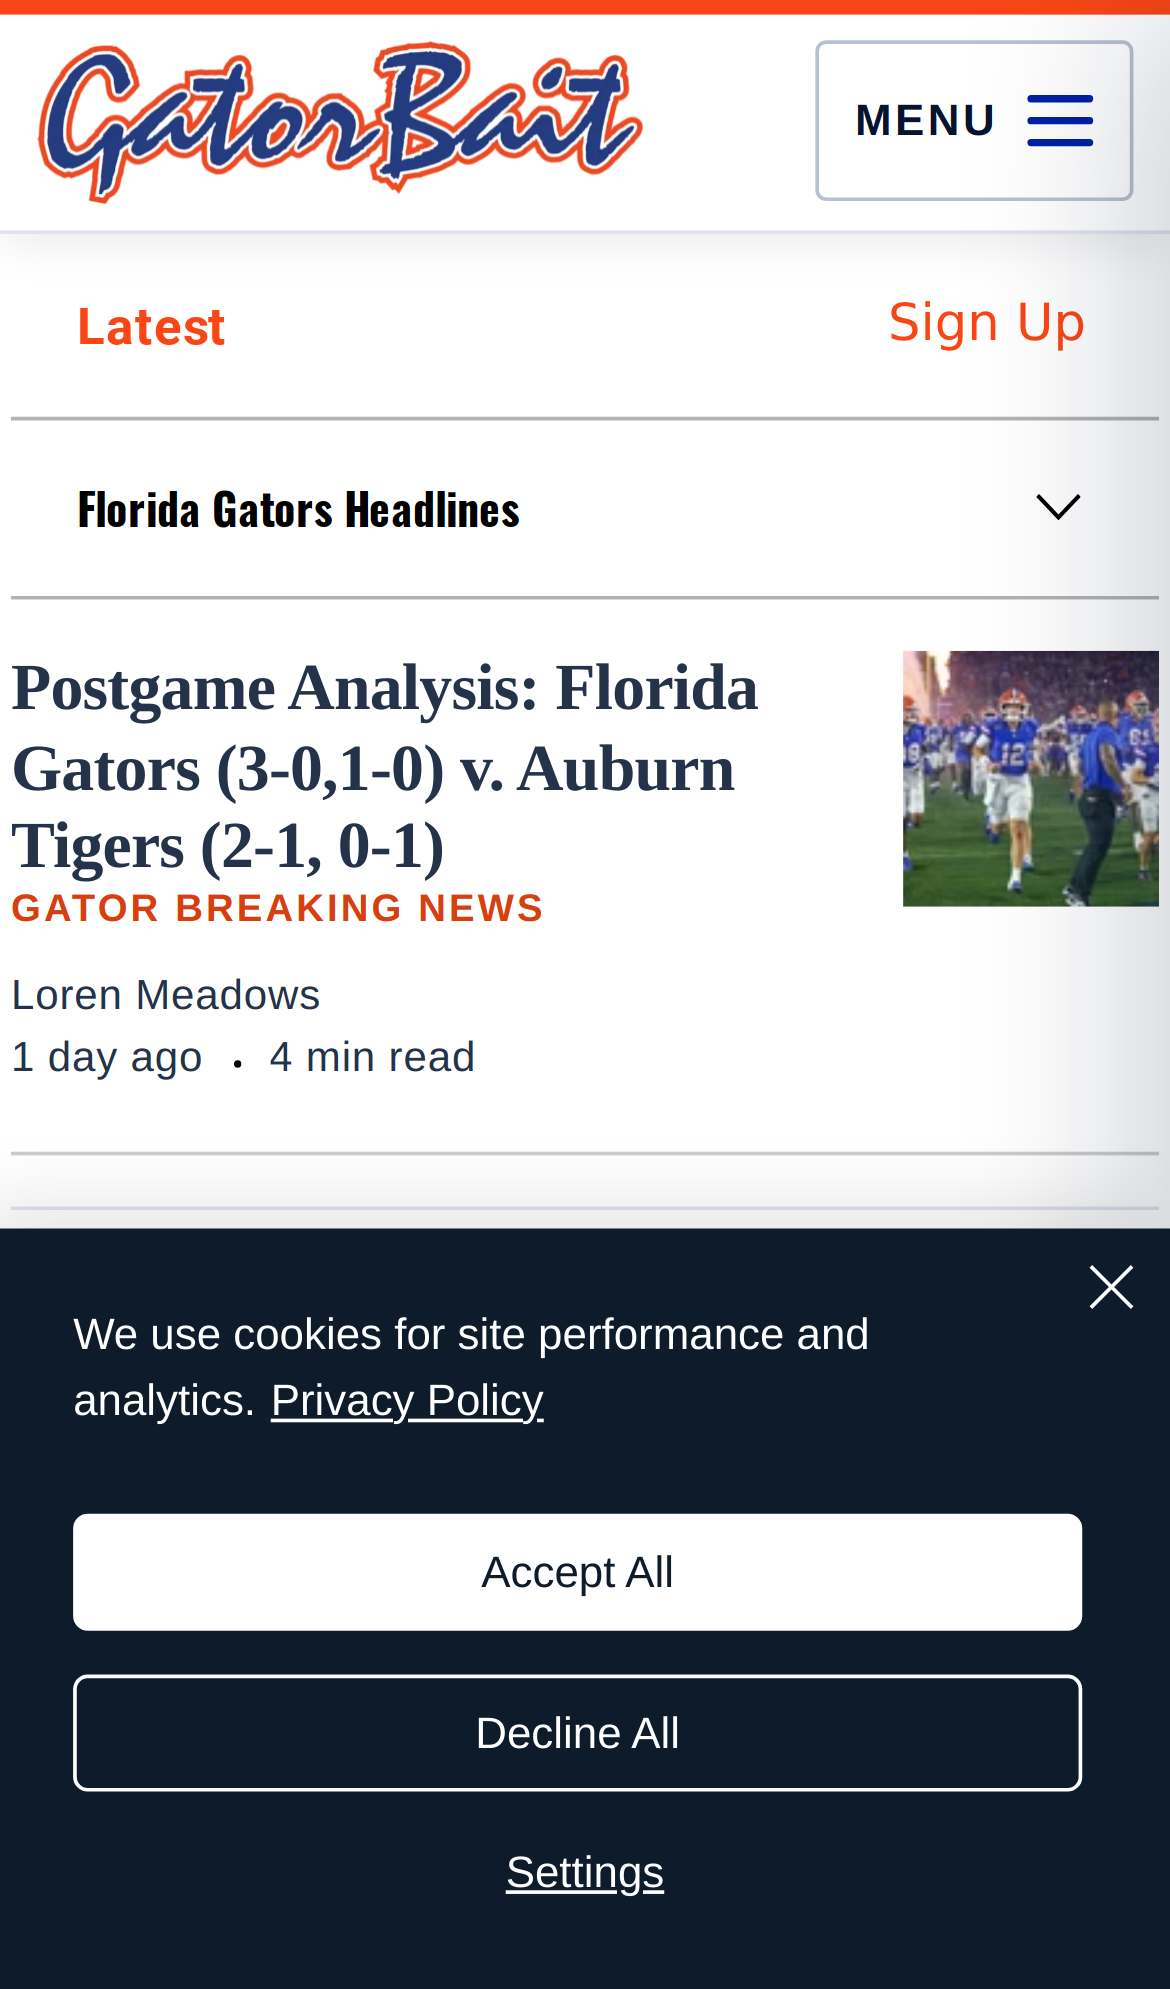
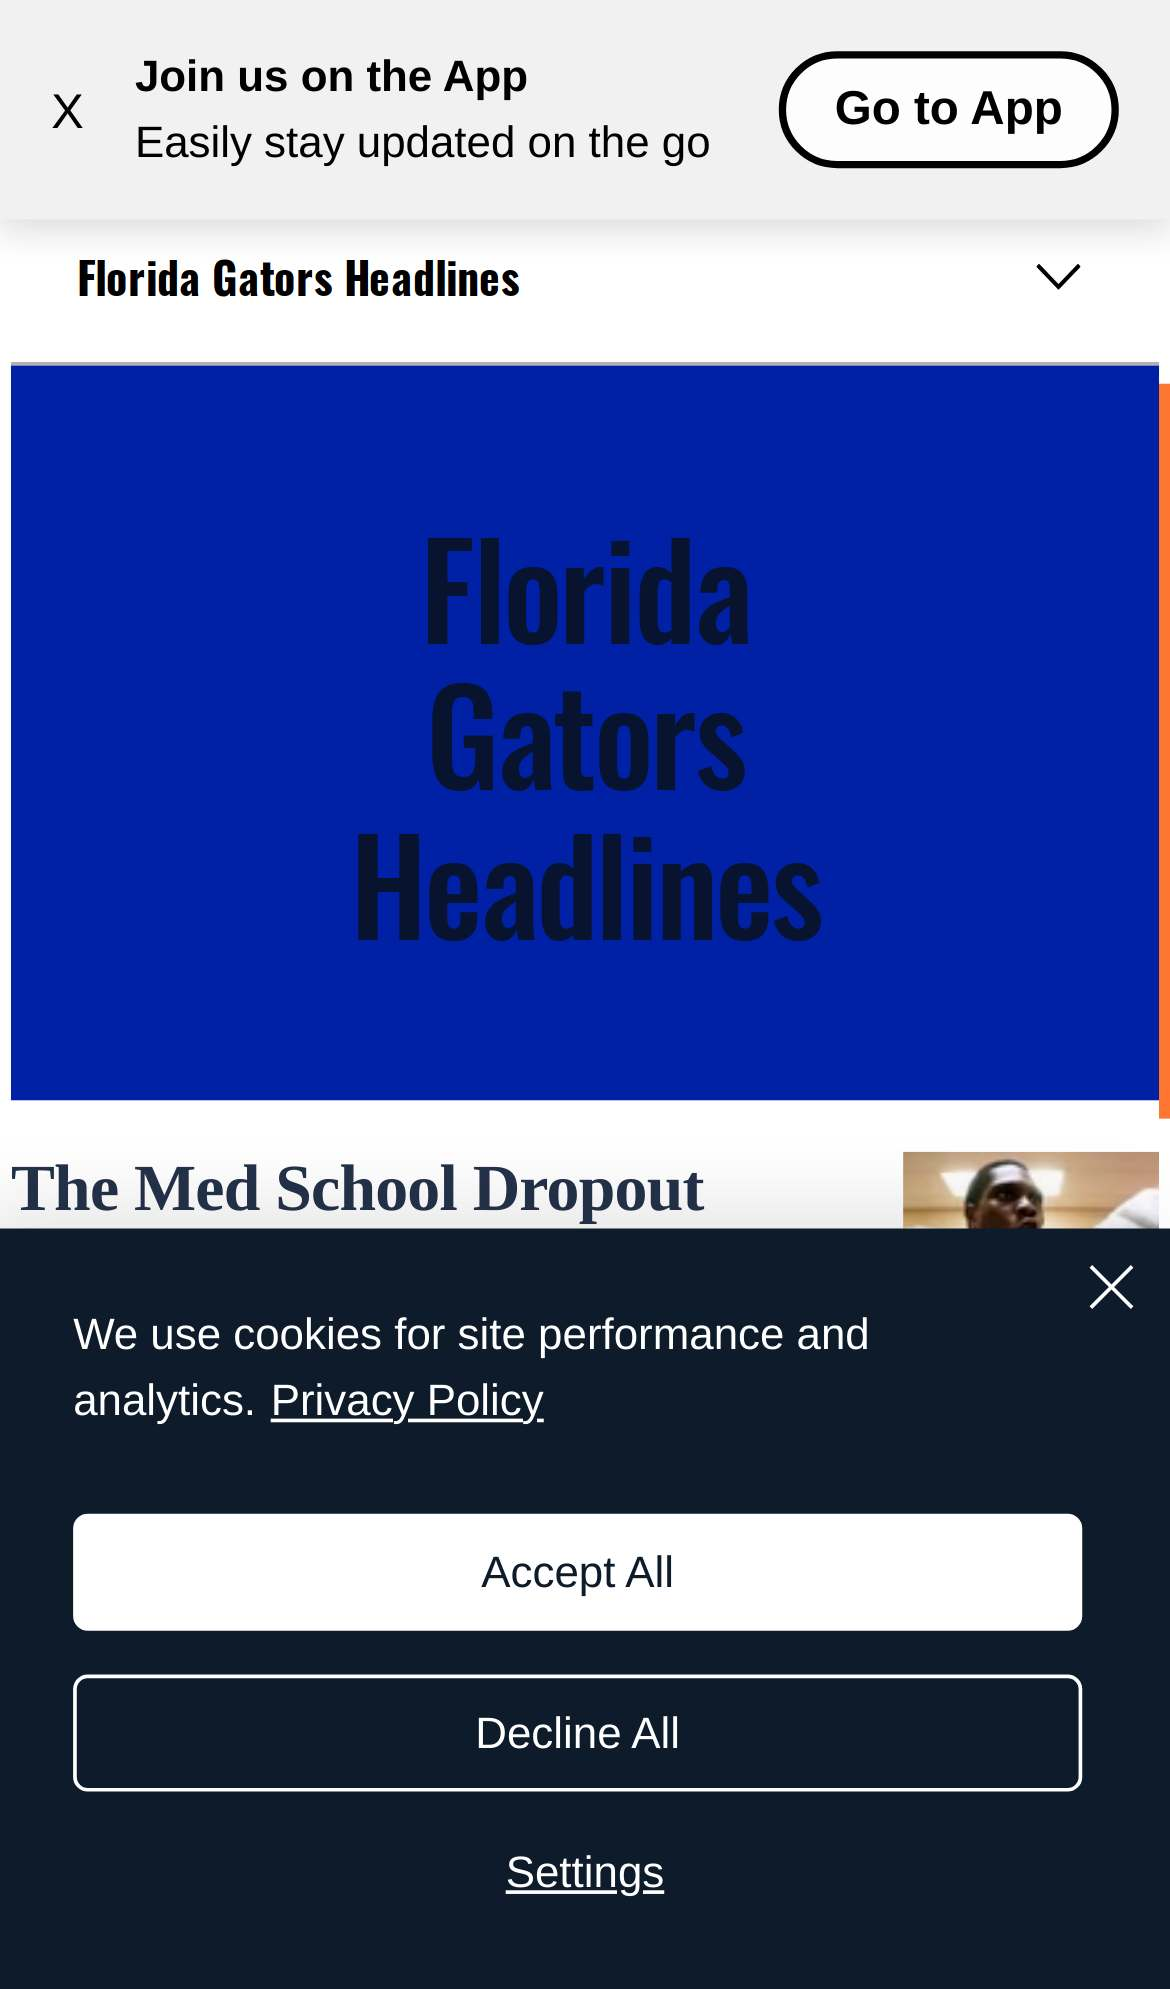
vision: capture live site as CI sees it

diff --git a/automation/vision/latest/REPORT.md b/automation/vision/latest/REPORT.md
@@ -1,22 +1,18 @@
-# Live site vision — 2026-09-21T20:03:35.078Z
+# Live site vision — 2026-09-21T20:06:04.024Z
+
+## URL checks
+
+| URL | Status | Bytes |
+|---|---:|---:|
+| `cdn.jsdelivr.net/gh/Presidente49/gatorbait-media-redesign@32127d938ad41b0f7851` | 200 | 13922 |
+| `cdn.jsdelivr.net/gh/Presidente49/gatorbait-media-redesign@d03d9d1e0350c55be03d` | 200 | 16641 |
+| `presidente49.github.io/gatorbait-media-redesign/news-sitemap.xml` | 200 | 24479 |
+| `presidente49.github.io/gatorbait-media-redesign/posts-sitemap.xml` | 200 | 8470 |
+| `presidente49.github.io/gatorbait-media-redesign/sitemap-index.xml` | 200 | 436 |
 
 ## home · mobile
-HTTP 200 · viewport 320px · root classes `(none)`
-newsroom mounted: false (0 children) · native pages visible: true
-header 122px rendered, overflow visible, content 124px
-tap targets under 44px: 8
-
-**Findings**
-- Header content is clipped: scrollHeight 124 > clientHeight 117
-- 1+ elements overflow horizontally
-- Retired branding present: Monday Chomp
-
-Console errors:
-- `Failed to load resource: net::ERR_CERT_COMMON_NAME_INVALID`
-
-## blog · mobile
-HTTP 200 · viewport 320px · root classes `gbm-blog gbm-tight-footer gbm-latest-clean gbm-hide-blog-follow`
-newsroom mounted: false (0 children) · native pages visible: true
+HTTP 200 · viewport 320px · root classes `gbm-standalone-live`
+newsroom mounted: true (4 children) · native pages visible: false
 header 0px rendered, overflow visible, content 0px
 tap targets under 44px: 26
 
@@ -27,14 +23,27 @@ Console errors:
 - `Failed to load resource: the server responded with a status of 429 ()`
 - `Failed to load resource: net::ERR_CERT_COMMON_NAME_INVALID`
 
+## blog · mobile
+HTTP 200 · viewport 320px · root classes `gbm-blog`
+newsroom mounted: false (0 children) · native pages visible: true
+header 0px rendered, overflow visible, content 0px
+tap targets under 44px: 18
+
+**Findings**
+- 1+ elements overflow horizontally
+
+Console errors:
+- `Failed to load resource: the server responded with a status of 429 ()`
+- `Failed to load resource: net::ERR_CERT_COMMON_NAME_INVALID`
+
 ## home · desktop
 HTTP 200 · viewport 1280px · root classes `(none)`
 newsroom mounted: false (0 children) · native pages visible: true
-header 149px rendered, overflow visible, content 148px
-tap targets under 44px: 8
+header 115px rendered, overflow visible, content 120px
+tap targets under 44px: 13
 
 **Findings**
-- Header content is clipped: scrollHeight 148 > clientHeight 144
+- Header content is clipped: scrollHeight 120 > clientHeight 115
 - Retired branding present: Monday Chomp
 
 Console errors:
@@ -52,4 +61,3 @@ tap targets under 44px: 64
 
 Console errors:
 - `pageerror: ReferenceError: wixTagManager is not defined`
-- `Failed to load resource: the server responded with a status of 429 ()`
